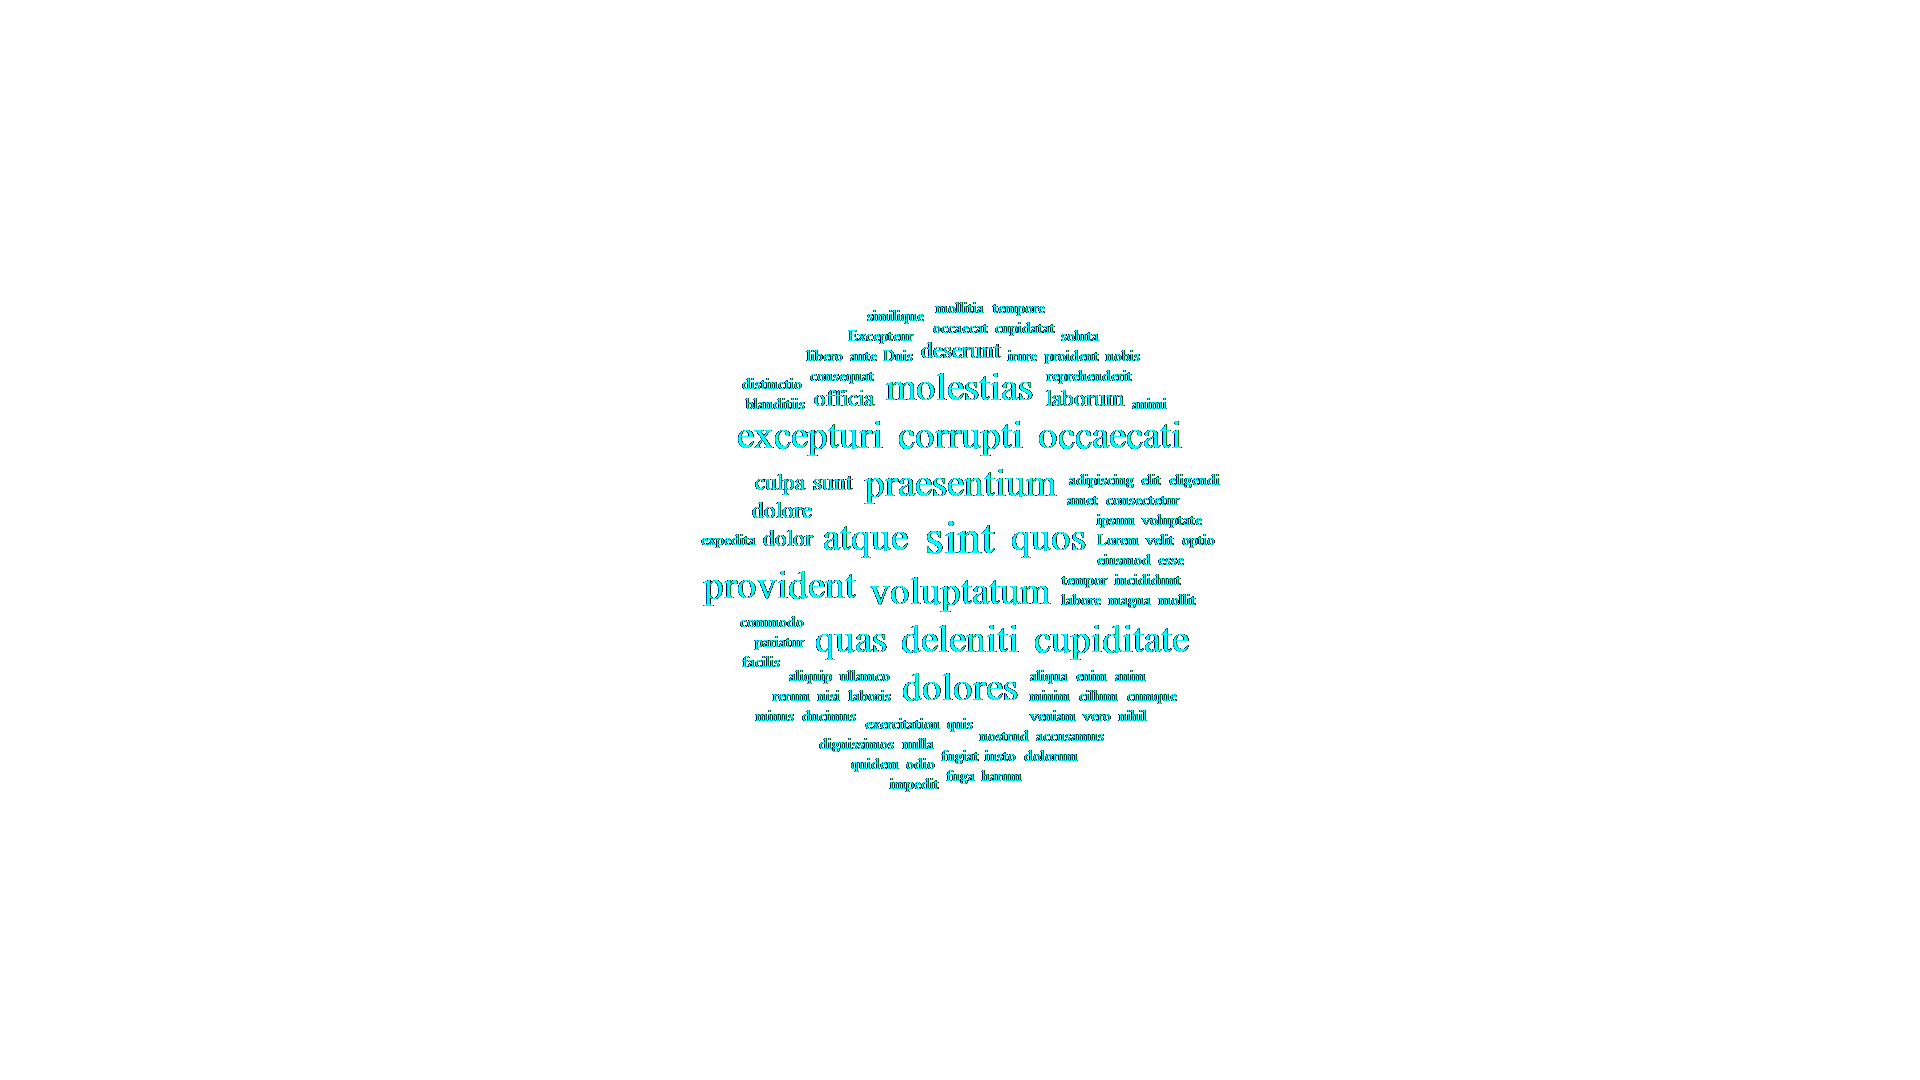
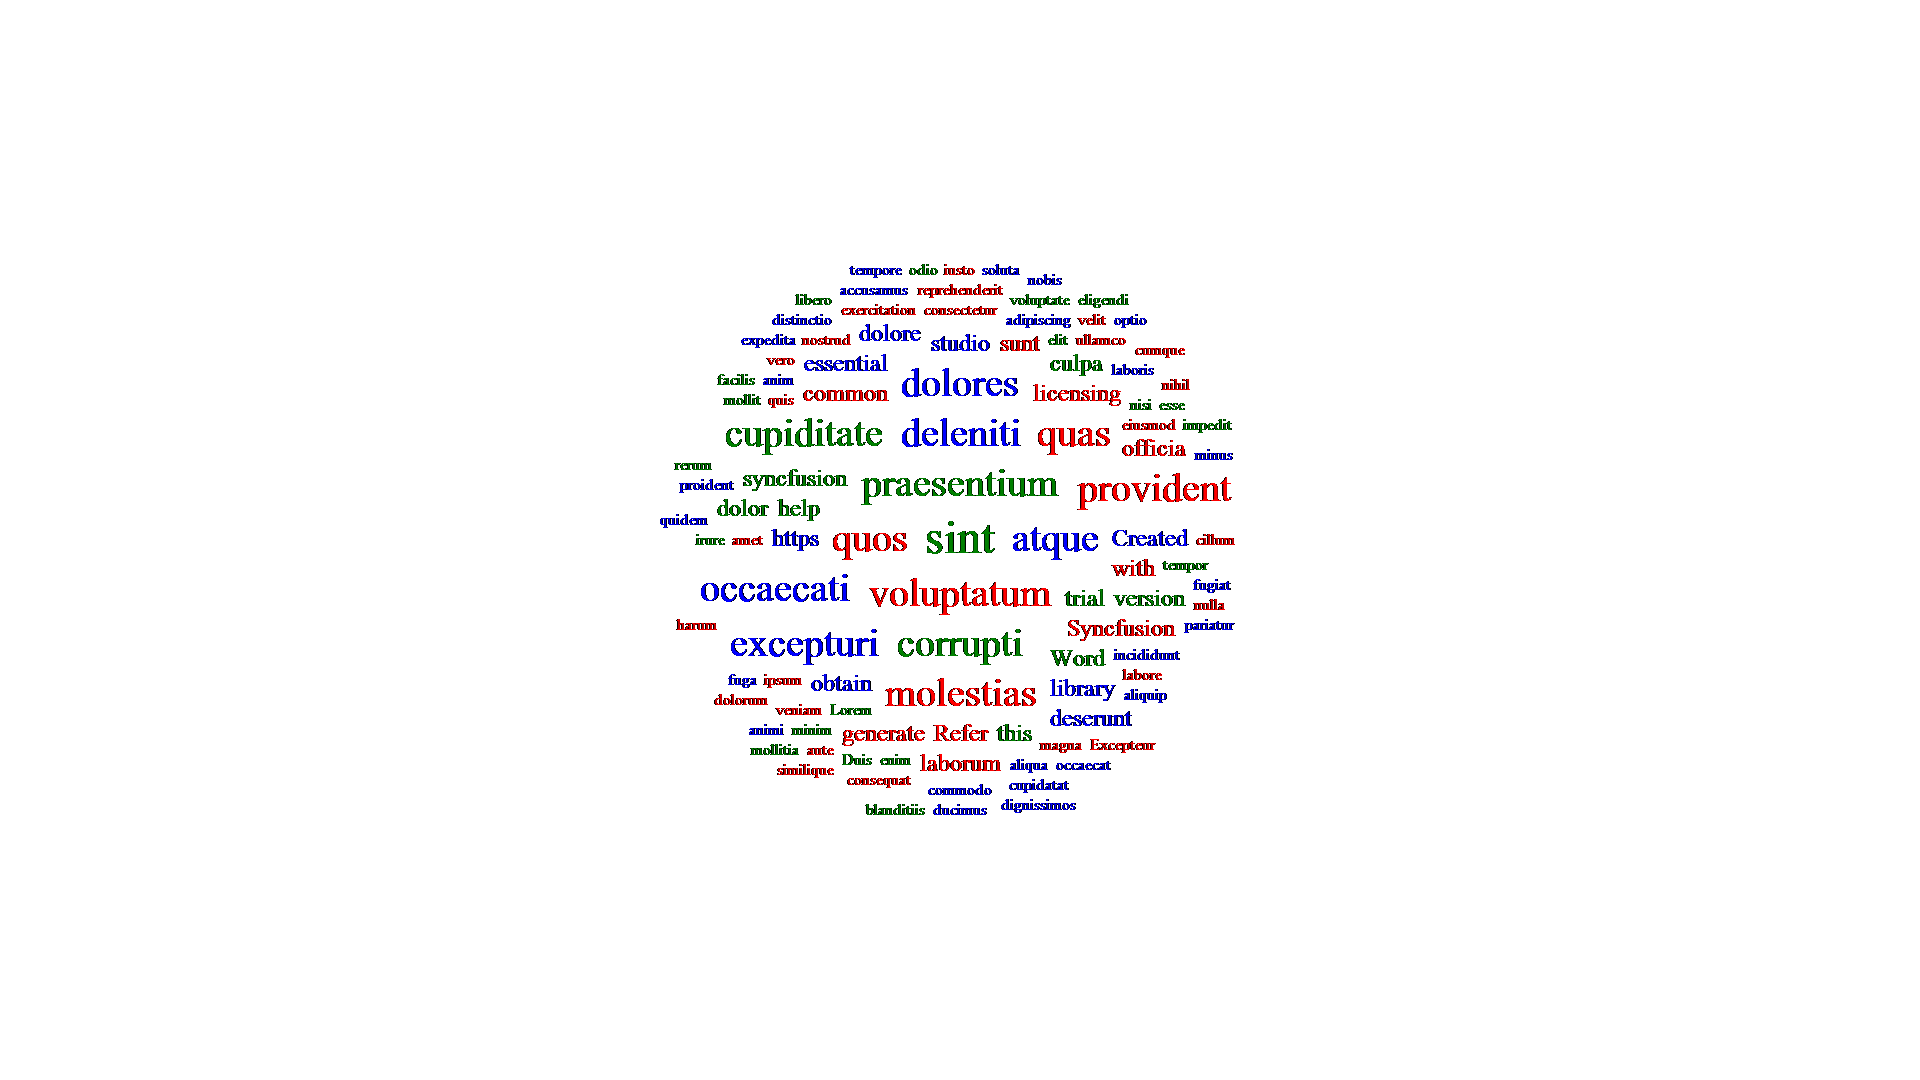
Added doc file reader, interfaces, results formats

Changed region(s): [[0.3438, 0.2444, 0.6562, 0.7639]]

diff --git a/TagsCloudVisualization/Painter.cs b/TagsCloudVisualization/Painter.cs
@@ -2,19 +2,42 @@
 using System.Collections.Generic;
 using System.Drawing;
 using System.Drawing.Drawing2D;
+using System.Drawing.Imaging;
+using System.IO;
 using System.Linq;
 using System.Runtime.InteropServices.ComTypes;
 using TagsCloudVisualization.TextFormatters;
 
 namespace TagsCloudVisualization
 {
-    public class Painter
+    public class Painter : IPainter
     {
         private readonly Size size;
+        private IEnumerable<Color> colors;
+        private readonly IList<Color> defaultColors = new List<Color> { Color.Aqua };
+        private Random rnd;
 
-        public Painter(Size size)
+        private Color RandomColor
+        {
+            get
+            {
+                var colorsList = colors.ToList();
+                return colorsList.Count == 0
+                    ? defaultColors[rnd.Next(defaultColors.Count)]
+                    : colorsList[rnd.Next(colorsList.Count)];
+            }
+        }
+
+        public Painter(Size size) : this(size, new List<Color>())
+        {
+
+        }
+
+        public Painter(Size size, IEnumerable<Color> colors)
         {
             this.size = size;
+            this.colors = colors;
+            rnd = new Random();
         }
 
         public List<Word> TransformWords(List<Word> rectangles, Size newCanvas)
@@ -52,7 +75,7 @@ namespace TagsCloudVisualization
                         Alignment = StringAlignment.Center,
                         LineAlignment = StringAlignment.Center,
                     };
-                    g.DrawString(word.Value, word.Font, new SolidBrush(Color.Aqua), word.Rectangle, stringFormat);
+                    g.DrawString(word.Value, word.Font, new SolidBrush(RandomColor), word.Rectangle, stringFormat);
                 }
             }
             b.Save(path);
@@ -67,7 +90,22 @@ namespace TagsCloudVisualization
             {
                 rectangles.ForEach(t => g.DrawRectangle(new Pen(Brushes.DeepSkyBlue), t));
             }
-            b.Save(path);
+            b.Save(path, GetImageFormat(path));
+        }
+
+        public static ImageFormat GetImageFormat(string fileName)
+        {
+            var extension = Path.GetExtension(fileName);
+            return extension.ToLower() switch
+            {
+                ".png" => ImageFormat.Png,
+                ".bmp" => ImageFormat.Bmp,
+                ".ico" => ImageFormat.Icon,
+                ".ic" => ImageFormat.Icon,
+                ".jpg" => ImageFormat.Jpeg,
+                ".jpeg" => ImageFormat.Jpeg,
+                _ => throw new ArgumentException($"Extension {extension} are not supported!")
+            };
         }
     }
 }

diff --git a/TagsCloudVisualization/Client.cs b/TagsCloudVisualization/Client.cs
@@ -6,6 +6,8 @@ using System.IO;
 using System.Linq;
 using System.Text;
 using System.Threading.Tasks;
+using Microsoft.Extensions.DependencyInjection;
+using TagsCloudVisualization.Curves;
 using TagsCloudVisualization.FileReaders;
 using TagsCloudVisualization.TextFormatters;
 
@@ -13,24 +15,31 @@ namespace TagsCloudVisualization
 {
     public class Client
     {
-        private readonly Painter painter;
-        private readonly IFileReader fileReader;
-        private readonly TextFormatter formatter;
-        private readonly CircularCloudLayouter layouter;
+        private readonly IPainter painter;
+        private readonly ITextFormatter formatter;
+        private readonly ICloudLayouter layouter;
 
-        public Client(CircularCloudLayouter layouter, Painter painter, TextFormatter formatter, IFileReader fileReader)
+        public Client(ICloudLayouter layouter, IPainter painter, ITextFormatter formatter)
         {
             this.layouter = layouter;
             this.painter = painter;
             this.formatter = formatter;
-            this.fileReader = fileReader;
         }
 
         public void Draw(string destinationPath, FontFamily font)
         {
-            var text = fileReader.ReadAllText();
-            var words = MakeRectangles(formatter.Format(text), font);
-            painter.DrawWordsToFile(words, destinationPath);
+            var services = Program.Container.GetServices<IFileReader>();
+            foreach (var service in services)
+            {
+                if (service.TryReadAllText(out var text))
+                {
+                    var words = MakeRectangles(formatter.Format(text), font);
+                    painter.DrawWordsToFile(words, destinationPath);
+                    return;
+                }
+            }
+
+            throw new Exception("IFileReader not found!");
         }
 
 

diff --git a/TagsCloudVisualization/Program.cs b/TagsCloudVisualization/Program.cs
@@ -9,21 +9,24 @@ namespace TagsCloudVisualization
 {
     internal class Program
     {
+        public static ServiceProvider Container;
+
         private static void Main(string[] args)
         {
             var parsedArgs = Parser.Default.ParseArguments<CommandLineOptions>(args).Value;
             IServiceCollection services = new ServiceCollection();
+            services.AddSingleton<IFileReader>(new DocFileReader(parsedArgs.InputFile));
             services.AddSingleton<IFileReader>(new TxtFileReader(parsedArgs.InputFile));
             services.AddSingleton(new Spiral(new Point(parsedArgs.X, parsedArgs.Y)));
-            services.AddSingleton(new Painter(new Size(parsedArgs.Width, parsedArgs.Height)));
-            services.AddSingleton(new CircularCloudLayouter(new Point(parsedArgs.X, parsedArgs.Y)));
+            services.AddSingleton<IPainter>(new Painter(new Size(parsedArgs.Width, parsedArgs.Height), parsedArgs.Colors));
+            services.AddSingleton<ICloudLayouter>(new CircularCloudLayouter(new Point(parsedArgs.X, parsedArgs.Y)));
             services.AddSingleton<IWordFilter>(new SmallWordFilter());
-            services.AddSingleton<TextFormatter>();
+            services.AddSingleton<ITextFormatter, TextFormatter>();
             services.AddSingleton<Client>();
-            var container = services.BuildServiceProvider();
-
+            Container = services.BuildServiceProvider();
             var font = new FontFamily(parsedArgs.FontName);
-            var client = container.GetRequiredService<Client>();
+            var client = Container.GetRequiredService<Client>();
+
             client.Draw(parsedArgs.OutputFile, font);
         }
     }

diff --git a/TagsCloudVisualization/FileReaders/DocFileReader.cs b/TagsCloudVisualization/FileReaders/DocFileReader.cs
@@ -1,20 +1,15 @@
-using System;
-using System.Collections.Generic;
-using System.IO;
-using System.Linq;
-using System.Text;
-using System.Threading.Tasks;
-using Syncfusion.DocIO;
+using Syncfusion.DocIO;
+using Syncfusion.DocIO.DLS;
 
 namespace TagsCloudVisualization.FileReaders
 {
-    public class TxtFileReader : IFileReader
+    public class DocFileReader : IFileReader
     {
         public string FilePath { get; }
 
-        public TxtFileReader(string filePath)
+        public DocFileReader(string path)
         {
-            FilePath = filePath;
+            FilePath = path;
         }
 
         public bool TryReadAllText(out string text)
@@ -22,7 +17,8 @@ namespace TagsCloudVisualization.FileReaders
             text = string.Empty;
             try
             {
-                text = File.ReadAllText(FilePath);
+                using var document = new WordDocument(FilePath);
+                text = document.GetText();
                 return true;
             }
             catch

diff --git a/TagsCloudVisualizationTests/CircularCloudLayouterTests.cs b/TagsCloudVisualizationTests/CircularCloudLayouterTests.cs
@@ -30,7 +30,7 @@ namespace TagsCloudVisualizationTests
             generator = new RectangleGenerator(MinRectangle, MaxRectangle);
             layouter = new CircularCloudLayouter(CanvasCenter);
             rectangles = new List<Rectangle>();
-            painter = new Painter(new Size(1920, 1080), new List<Color>());
+            painter = new Painter(new Size(1920, 1080));
         }
 
         [Test, Category("DrawImageWhenFail")]

diff --git a/TagsCloudVisualization/IPainter.cs b/TagsCloudVisualization/IPainter.cs
@@ -1,0 +1,15 @@
+using System;
+using System.Collections.Generic;
+using System.Linq;
+using System.Text;
+using System.Threading.Tasks;
+using TagsCloudVisualization.TextFormatters;
+
+namespace TagsCloudVisualization
+{
+    public interface IPainter
+    {
+        public void DrawWordsToFile(List<Word> words, string path);
+
+    }
+}

diff --git a/TagsCloudVisualization/ICloudLayouter.cs b/TagsCloudVisualization/ICloudLayouter.cs
@@ -1,0 +1,14 @@
+using System;
+using System.Collections.Generic;
+using System.Drawing;
+using System.Linq;
+using System.Text;
+using System.Threading.Tasks;
+
+namespace TagsCloudVisualization
+{
+    public interface ICloudLayouter
+    {
+        public Rectangle PutNextRectangle(Size rectangleSize);
+    }
+}

diff --git a/TagsCloudVisualization/CircularCloudLayouter.cs b/TagsCloudVisualization/CircularCloudLayouter.cs
@@ -6,7 +6,7 @@ using TagsCloudVisualization.Structures;
 
 namespace TagsCloudVisualization
 {
-    public class CircularCloudLayouter
+    public class CircularCloudLayouter : ICloudLayouter
     {
         private readonly Rectangle maxCanvas;
         public readonly Size MaxCanvasSize = new(90000, 90000);

diff --git a/TagsCloudVisualization/TextFormatters/ITextFormatter.cs b/TagsCloudVisualization/TextFormatters/ITextFormatter.cs
@@ -1,0 +1,13 @@
+using System;
+using System.Collections.Generic;
+using System.Linq;
+using System.Text;
+using System.Threading.Tasks;
+
+namespace TagsCloudVisualization.TextFormatters
+{
+    public interface ITextFormatter
+    {
+        public List<Word> Format(string text);
+    }
+}

diff --git a/TagsCloudVisualization/TextFormatters/TextFormatter.cs b/TagsCloudVisualization/TextFormatters/TextFormatter.cs
@@ -7,7 +7,7 @@ using System.Threading.Tasks;
 
 namespace TagsCloudVisualization.TextFormatters
 {
-    public class TextFormatter
+    public class TextFormatter : ITextFormatter
     {
         public IWordFilter Filter;
 

diff --git a/TagsCloudVisualization/FileReaders/IFileReader.cs b/TagsCloudVisualization/FileReaders/IFileReader.cs
@@ -6,6 +6,6 @@ namespace TagsCloudVisualization.FileReaders
     {
         public string FilePath { get; }
 
-        string ReadAllText();
+        public bool TryReadAllText(out string text);
     }
 }
